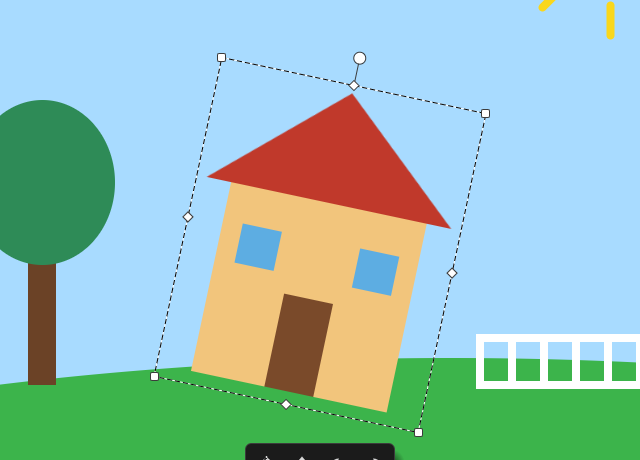
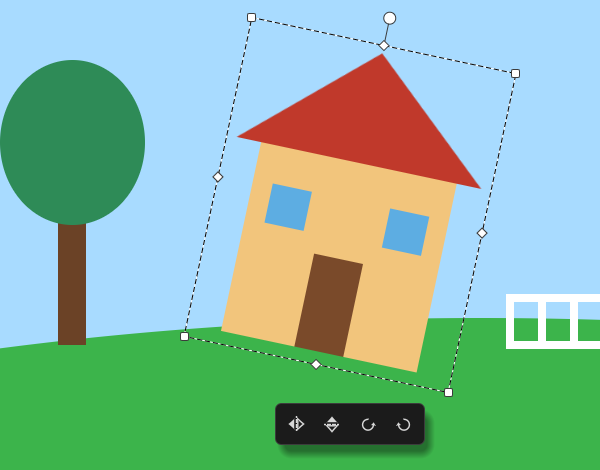
Rewrite the README with screenshots
A header with the icon, Windows and Ubuntu screenshots side by side,
detail shots of transforming, the color picker and the shapes menu, and
the controls and how-tos reorganized into shorter sections.

Claude-Session: https://claude.ai/code/session_01AzFhQcsrUdjSbhScM74SJ1

diff --git a/README.md b/README.md
@@ -1,122 +1,66 @@
-# Paint
+<p align="center">
+  <img src="assets/icons/128.png" width="96" alt="Paint icon">
+</p>
 
-This is simple paint tool, not a photoshop. The main goal is to provide a tool that's fast to load, easy to use.
+<h1 align="center">Paint</h1>
 
-Written in Rust with [egui/eframe](https://github.com/emilk/egui); runs on Windows, Linux and macOS.
+<p align="center">
+  A simple paint tool, not a Photoshop: fast to load, easy to use.<br>
+  Written in Rust with <a href="https://github.com/emilk/egui">egui/eframe</a>, for Windows, Linux and macOS.
+</p>
+
+| Windows | Ubuntu |
+| --- | --- |
+| ![Paint on Windows](docs/screenshots/windows.png) | ![Paint on Ubuntu](docs/screenshots/ubuntu.png) |
 
 ## Features
 
-- **Infinite canvas** – paint anywhere; pan and zoom freely. 100% zoom is pixel-for-pixel
-  with the screen, also on displays with OS scaling (e.g. 150% on Windows).
-- **Open / save** PNG, JPEG and BMP (File menu, `Ctrl+O` / `Ctrl+S`, drag a file onto
-  the window, or `paint image.png`). Saving flattens the visible layers and crops to
-  what's drawn; PNG keeps transparency, JPEG/BMP get a white background.
-- **Tools** – Brush, Eraser, Flood fill, Shapes (rectangle, ellipse, triangle, regular
-  n-gon – outline or filled – line and polyline),
-  Grid, rectangle Select, Text.
-- **Transform** – rotate, scale, skew and mirror the selection or a pasted image with handles
-  right on the canvas.
-- **Copy / paste** – copy a selected rectangle, paste images from the system clipboard
-  (e.g. a screenshot from the Snipping Tool), then move the pasted piece into place.
-  Color 2 (white by default) is treated as transparent when pasting (toggleable).
-- **Two colors, like MS Paint** – the left mouse button paints with color 1, the right
-  button with color 2. Left-click a palette swatch to set color 1, right-click to set
-  color 2; click either color in the toolbar for a picker (with RGB, HSV or hex values), `X` swaps them. The last
-  swatch is **Clear**: with it, Fill (and Brush, shapes, Text) erase instead of painting.
-- **Floating size and opacity sliders** on the left side of the canvas. Painting tools
-  share one size/opacity; the eraser and the text tool each keep their own.
-- **Quick brush resize** – hold Alt (Option on macOS) and drag left/right or scroll;
-  the key and behavior are configurable in **Settings**.
-- **Layers** – previews, add, delete, reorder, hide, rename, per-layer opacity. The
-  layers window always stays over the canvas; a long list scrolls.
-- **Undo / redo** for painting and layer add/delete/reorder.
-- **Compact window** – the toolbar with the File / Edit / View menus *is* the title bar,
-  like in VS Code: drag its empty space to move the window, double-click to maximize,
-  and use its minimize / maximize / close buttons and the window edges on Windows and
-  Linux. On macOS the traffic lights sit over its left end. Prefer the system title
-  bar? **Settings → Window** (Windows and Linux).
+- **Infinite canvas.** Paint anywhere, pan and zoom freely. 100% zoom is pixel for
+  pixel with the screen, also on displays with OS scaling (e.g. 150% on Windows), so a
+  pasted screenshot comes out exactly its real size.
+- **Tools.** Brush, Eraser, Flood fill, Shapes (rectangle, ellipse, triangle, regular
+  n-gon, line and polyline; outlined or filled), Grid (rectangles, triangles or
+  hexagons), rectangle Select and Text.
+- **Two colors, like MS Paint.** The left mouse button paints with color 1, the right
+  one with color 2. The last palette swatch, **Clear**, makes Fill, Brush, shapes and
+  Text erase instead.
+- **Layers** with previews: add, delete, reorder, hide, rename and set their opacity.
+- **Transform** the selection or a pasted image right on the canvas: move, rotate,
+  scale, skew, mirror and turn by 90°.
+- **Copy and paste** with the system clipboard, e.g. a partial screenshot from the
+  Snipping Tool. Color 2 (white by default) can be made transparent when pasting.
+- **Smart fill.** Filling around a shape changes the background color all the way to
+  infinity, while enclosed areas keep their look.
+- **Open and save** PNG, JPEG and BMP, or drag a file onto the window.
+- **Undo and redo** for everything, including layer changes.
+- **Compact window.** The toolbar, with its File / Edit / View menus, is also the
+  title bar, like in VS Code.
+- **Configurable.** Every shortcut can be rebound, and the starting size, opacity,
+  font, colors and more can be changed in Settings.
 
-## Controls
+<table>
+  <tr>
+    <td align="center" width="50%">
+      <img src="docs/screenshots/transform.png" alt="Rotating a selection with its handles"><br>
+      <sub>Rotate, scale and skew with handles on the canvas</sub>
+    </td>
+    <td align="center" width="50%">
+      <img src="docs/screenshots/color-picker.png" alt="The color picker in HSV mode"><br>
+      <sub>Color picker with RGB, HSV or hex values</sub><br><br>
+      <img src="docs/screenshots/shapes-menu.png" alt="The shapes menu"><br>
+      <sub>Hover a tool to pick its kind</sub>
+    </td>
+  </tr>
+</table>
 
-These are the default shortcuts; every one of them can be changed in **Settings →
-Keyboard shortcuts** (click a shortcut and press the new keys). Settings also hold the
-values tools start with (sizes, opacities, font, colors, …), each with its own reset
-button, plus "Restore all defaults".
+## Getting started
 
-| Action | Input |
-| --- | --- |
-| Paint / use tool | Left mouse button (color 1), right mouse button (color 2) |
-| Swap color 1 and 2 | `X` |
-| New / open / save / save as | `Ctrl+N` / `Ctrl+O` / `Ctrl+S` / `Ctrl+Shift+S` |
-| Fit everything drawn into the window (max 100%) / reset view | `Ctrl+0` / `Ctrl+1` |
-| Pan | Middle mouse drag, or Space + left drag |
-| Zoom | Mouse wheel / pinch (around the cursor) |
-| Brush / Eraser / Fill | `B` / `E` / `G` |
-| Shape tool / Grid / Select / Text | `S` / `H` / `M` / `T` |
-| Next shape / grid type (press the tool's key again) | `S` / `H` |
-| Rectangle / Ellipse / N-gon / Line / Polyline | `R` / `C` / `N` / `L` / `P` |
-| Snap to square / circle / equilateral triangle, lines to 45° steps | Hold `Shift` while drawing (configurable) |
-| Select everything that's painted | `Ctrl+A` |
-| Change brush size | Hold `Alt` (`Option` on macOS) + drag left/right or scroll (configurable) |
-| Copy selection (active layer) | `Ctrl+C` |
-| Copy selection (all visible layers) | `Ctrl+Shift+C` |
-| Cut / delete selection | `Ctrl+X` / `Delete` |
-| Paste image from clipboard | `Ctrl+V` |
-| Place / cancel pasted image | `Enter` or click outside it / `Esc` |
-| Undo | `Ctrl+Z` (`Cmd+Z` on macOS) |
-| Redo | `Ctrl+Shift+Z` or `Ctrl+Y` |
-
-Text: click where the text should start and type, like in a text editor: there's no
-box, `Enter` starts a new line, arrows/Home/End move the caret. `Esc`, clicking
-elsewhere or switching tools places the text; `Ctrl+Z` while typing discards it. The
-size slider sets the font size; the font is chosen in the side panel (DejaVu fonts,
-bundled).
-
-Shapes and grids: hover the shape (or grid) button to pick a kind from its menu.
-Rectangle, ellipse and triangle: drag from corner to corner of the bounding box.
-N-gon (regular, 3–20 sides set with the Sides slider): click where vertex 0 goes, then
-move and click again where vertex n/2 (rounded down) goes – or drag between the two.
-The polygon turns and scales live with the mouse; `Shift` snaps the turn to 15° steps. Line: drag from end to end.
-Polyline: click to add points, double-click or `Enter` to finish, click the first point
-to close it; `Ctrl+Z` removes the last point, `Esc` cancels. The pen size is the line
-width.
-
-The selection belongs to the Select tool: it's only shown (and only used by copy, cut
-and delete) while that tool is active.
-
-Grid: pick the cell shape (rectangles, triangles or hexagons) from the grid button's
-menu, click where the grid starts, move the mouse to size one cell, click, then move
-to size the whole grid and click again. As many whole cells as fit are drawn (e.g. a
-3×7 cell in a 10×20 area gives 3×2 cells); the count is shown while you move. With
-`Shift` the cell becomes regular (square, equilateral triangle, regular hexagon).
-`Esc` cancels.
-
-Pasted images float above the active layer until placed; drag them to move. With the
-Select tool, dragging inside the selection lifts its pixels so they can be moved the
-same way. Around a selection or pasted image:
-
-- the round handle above it rotates (`Shift` snaps to 15°),
-- the squares on its corners scale it, keeping the opposite corner in place (`Shift`
-  keeps the proportions; dragging past the opposite corner mirrors it),
-- the diamonds on its edges skew it,
-- the bar below it mirrors left/right or top/bottom and turns by 90°.
-
-`Enter` or a click outside places it (one undo step), `Esc` puts things back as they
-were.
-
-Flood fill works on the active layer. Filling an enclosed area paints it. Filling an
-area that is open to infinity (e.g. around a drawn shape) changes the layer's
-background color everywhere, out to infinity, while enclosed areas keep their look:
-draw a circle, fill outside it with red, and the inside stays white. Undo restores
-the previous background. Filling with the Clear color erases the area instead; on
-the open area it makes the infinite background clear again.
-
-## Build & run
-
-Requires Rust 1.95 or newer ([rustup](https://rustup.rs)).
+Paint is built from source with Rust 1.95 or newer ([rustup](https://rustup.rs)):
 
 ```sh
 cargo run --release
+# or open an image right away
+cargo run --release -- picture.png
 ```
 
 On Linux you may need the usual windowing libraries, e.g. on Debian/Ubuntu:
@@ -125,43 +69,115 @@ On Linux you may need the usual windowing libraries, e.g. on Debian/Ubuntu:
 sudo apt install libxkbcommon-x11-0 libx11-6 libxcursor1 libxrandr2 libxi6 libwayland-client0
 ```
 
+## Controls
+
+These are the default shortcuts. Each one can be changed in **Settings → Keyboard
+shortcuts**: click it and press the new keys. On macOS, `Ctrl` is `Cmd` and `Alt` is
+`Option`.
+
+| Action | Input |
+| --- | --- |
+| Paint / use the tool | Left mouse button (color 1), right mouse button (color 2) |
+| Brush / Eraser / Fill | `B` / `E` / `G` |
+| Shape / Grid / Select / Text | `S` / `H` / `M` / `T` |
+| Next shape or grid kind | Press `S` / `H` again |
+| Rectangle / Ellipse / N-gon / Line / Polyline | `R` / `C` / `N` / `L` / `P` |
+| Square, circle, regular shape; lines in 45° steps | Hold `Shift` while drawing |
+| Change the brush size | Hold `Alt` and drag left/right or scroll |
+| Swap color 1 and 2 | `X` |
+| Pan | Middle mouse drag, or `Space` + left drag |
+| Zoom | Mouse wheel or pinch, around the cursor |
+| Fit everything into the window (up to 100%) / back to 100% | `Ctrl+0` / `Ctrl+1` |
+| Select everything that's painted | `Ctrl+A` |
+| Copy (active layer) / copy all visible layers | `Ctrl+C` / `Ctrl+Shift+C` |
+| Cut / delete the selection | `Ctrl+X` / `Delete` |
+| Paste an image from the clipboard | `Ctrl+V` |
+| Place / cancel a pasted or moved piece | `Enter` or click outside it / `Esc` |
+| Undo / redo | `Ctrl+Z` / `Ctrl+Shift+Z` or `Ctrl+Y` |
+| New / open / save / save as | `Ctrl+N` / `Ctrl+O` / `Ctrl+S` / `Ctrl+Shift+S` |
+
+### Using the tools
+
+**Colors.** Left-click a palette swatch to set color 1, right-click it to set color 2.
+Click either color in the toolbar to open the picker, which shows RGB, HSV or hex
+values.
+
+**Shapes.** Hover the shape button and pick a kind from its menu, or press `S` to
+step through them. Drag from corner to corner for a rectangle, ellipse or triangle,
+or from end to end for a line. The side panel switches between outlined and filled.
+- **N-gon:** set the number of sides (3–20) in the side panel. Click where the first
+  vertex goes, then click where the vertex halfway around goes (vertex n/2, rounded
+  down). The polygon turns with the mouse, and `Shift` snaps the turn to 15° steps.
+- **Polyline:** click to add points. Double-click or press `Enter` to finish, or click
+  the first point to close the shape. `Ctrl+Z` removes the last point.
+
+**Grid.** Pick rectangles, triangles or hexagons from the grid button's menu. Click
+where the grid starts, size one cell and click, then size the whole grid and click
+again. As many whole cells as fit are drawn: a 3×7 cell in a 10×20 area gives 3×2
+cells. The count is shown while you move.
+
+**Text.** Click where the text starts and type, like in a text editor. There's no
+box: `Enter` starts a new line, and the arrow keys, Home and End move the caret.
+`Esc`, a click elsewhere or another tool places the text. The size slider sets the
+font size, and the font is chosen in the side panel.
+
+**Selection and pasted images.** Drag inside the selection to move its pixels. Pasted
+images float above the active layer until they're placed. Around either one:
+- the round handle on top rotates it (`Shift` snaps to 15°);
+- the corner squares scale it, keeping the opposite corner in place (`Shift` keeps the
+  proportions);
+- the edge diamonds skew it;
+- the bar below mirrors it or turns it by 90°.
+
+**Fill.** Filling an enclosed area paints it. Filling the open area around shapes
+changes the layer's background everywhere, out to infinity, while enclosed areas stay
+as they are: draw a circle, fill outside it with red, and the inside stays white.
+Filling with Clear erases instead.
+
+**Saving.** Saving flattens the visible layers and crops to what's drawn. PNG keeps
+transparency; JPEG and BMP get a white background.
+
+### Window
+
+The toolbar is the title bar: drag its empty space to move the window, and
+double-click it to maximize. On Windows and Linux it has its own minimize, maximize
+and close buttons, and the window edges resize it. To use the system title bar
+instead, turn it on in **Settings → Window**. On macOS the window keeps its own
+buttons, drawn over the toolbar's left end.
+
 ### App icon
 
-- **Windows:** the icon is embedded in `paint.exe` at build time.
-- **Linux:** docks and taskbars (GNOME, KDE, …) take the icon from a desktop
-  entry, not from the window. On startup Paint installs
-  `~/.local/share/applications/paint.desktop` and its icons under
-  `~/.local/share/icons/hicolor/`, pointing at the executable you ran. The
-  entry is refreshed when the binary moves, and an existing `paint.desktop`
-  that Paint didn't write is left alone. If the very first launch still shows a
-  generic icon, the next launch will have it. Paint then also appears in the
-  app launcher and in "Open with" for PNG, JPEG and BMP files.
-- **macOS:** the running app sets its Dock icon. To build a proper `Paint.app`
-  with the icon (for `/Applications` or Finder), run `scripts/bundle-macos.sh`
-  on a Mac; it writes `target/Paint.app`. CI builds the same bundle and
-  attaches it to each macOS run as the `Paint-macos` artifact.
+- **Windows:** the icon is built into `paint.exe`.
+- **Linux:** docks and taskbars take the icon from a desktop entry, so Paint installs
+  one on startup: `~/.local/share/applications/paint.desktop`, plus icons under
+  `~/.local/share/icons/hicolor/`. It points at the program you ran and is updated if
+  that moves. This also adds Paint to the app launcher and to "Open with" for images.
+- **macOS:** the Dock shows the icon while Paint runs. For a `Paint.app` you can put in
+  Applications, run `scripts/bundle-macos.sh` on a Mac. CI also builds it, as the
+  `Paint-macos` artifact of each macOS run.
 
 ## Development
 
 ```sh
-cargo test                         # unit tests (canvas, fill, undo/redo)
+cargo test
 cargo clippy --all-targets -- -D warnings
 cargo fmt
 ```
 
-Code layout:
+| File | Contents |
+| --- | --- |
+| `src/main.rs` | Window setup |
+| `src/app.rs` | The UI: toolbar, side panels, canvas input and drawing |
+| `src/canvas.rs` | Tiled infinite layers, shape drawing, flood fill, copy and paste |
+| `src/floating.rs` | Pasted and lifted pieces, and their transform handles |
+| `src/history.rs` | Undo and redo |
+| `src/file.rs` | Opening and saving images |
+| `src/color_picker.rs` | The color picker |
+| `src/text.rs` | Fonts, text layout and editing |
+| `src/shortcuts.rs` | Rebindable keyboard shortcuts |
+| `src/settings.rs` | Settings, saved between runs |
+| `src/titlebar.rs` | The toolbar as the title bar: moving, resizing, window buttons |
+| `src/desktop.rs` | The Linux desktop entry and icons |
 
-- `src/main.rs` – window setup.
-- `src/app.rs` – UI (toolbar, floating panels, canvas input and rendering).
-- `src/canvas.rs` – tiled infinite layers, brush/circle rasterization, flood fill,
-  copy/paste and thumbnails.
-- `src/history.rs` – undo/redo.
-- `src/floating.rs` – pasted / lifted pieces and their transform handles.
-- `src/file.rs` – loading and saving images.
-- `src/color_picker.rs` – the color picker.
-- `src/text.rs` – text tool fonts, layout and editing.
-- `src/shortcuts.rs` – rebindable keyboard shortcuts.
-- `src/settings.rs` – user preferences (saved between runs).
-- `src/titlebar.rs` – the toolbar as the window's title bar (moving, resizing, window
-  buttons).
-- `src/desktop.rs` – Linux desktop entry and icons.
+The Windows screenshot above is taken by the `Screenshots` workflow: it opens
+`docs/screenshots/demo.png` in a release build on a Windows runner.
